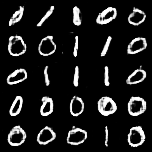
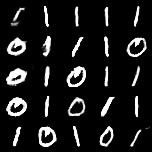
dark gan

diff --git a/discriminative/GAN.py b/discriminative/GAN.py
@@ -158,7 +158,7 @@ class VGR():
             gen_imgs = np.vstack((gen_imgs,new_gen_imgs))
             labels = np.hstack((labels,new_labels))
 
-        return gen_imgs, labels
+        return gen_imgs*0.5+0.5, labels
 
 def weights_init_normal(m):
     classname = m.__class__.__name__
@@ -176,14 +176,14 @@ class Generator(nn.Module):
         self.conv_blocks = nn.Sequential(
             nn.BatchNorm2d(128),
             nn.Upsample(scale_factor=2),
-            nn.Conv2d(128, 128, 3, stride=1, padding=1),
+            nn.Conv2d(128, 128, 5, stride=1, padding=2),
             nn.BatchNorm2d(128, 0.8),
             nn.LeakyReLU(0.2, inplace=True),
             nn.Upsample(scale_factor=2),
-            nn.Conv2d(128, 64, 3, stride=1, padding=1),
+            nn.Conv2d(128, 64, 5, stride=1, padding=2),
             nn.BatchNorm2d(64, 0.8),
             nn.LeakyReLU(0.2, inplace=True),
-            nn.Conv2d(64, channels, 3, stride=1, padding=1),
+            nn.Conv2d(64, channels, 5, stride=1, padding=2),
             nn.Tanh()
         )
 

diff --git a/discriminative/utils/vcl.py b/discriminative/utils/vcl.py
@@ -51,13 +51,13 @@ def run_vcl(hidden_size, no_epochs, data_gen, coreset_method, coreset_size=0, ba
 
         mf_model.update_prior()
         # Save weights before test (and last-minute training on coreset
-        #mf_model.save_weights()
+        mf_model.save_weights()
 
         acc = test.get_scores(mf_model, x_testsets, y_testsets, no_epochs, single_head, x_coresets, y_coresets, batch_size, False,gans)
         all_acc = test.concatenate_results(acc, all_acc)
 
-        #mf_model.load_weights()
-        #mf_model.clean_copy_weights()
+        mf_model.load_weights()
+        mf_model.clean_copy_weights()
 
 
         if not single_head:

diff --git a/discriminative/utils/test.py b/discriminative/utils/test.py
@@ -46,7 +46,7 @@ def get_scores(model, x_testsets, y_testsets, no_epochs, single_head,  x_coreset
     for i in range(len(x_testsets)):
         if not single_head:
             if len(x_coresets)>0 or gans is not None:
-                #model.load_weights()
+                model.load_weights()
                 gan_i = None
                 if gans is not None:
                     gan_i = gans[i]
